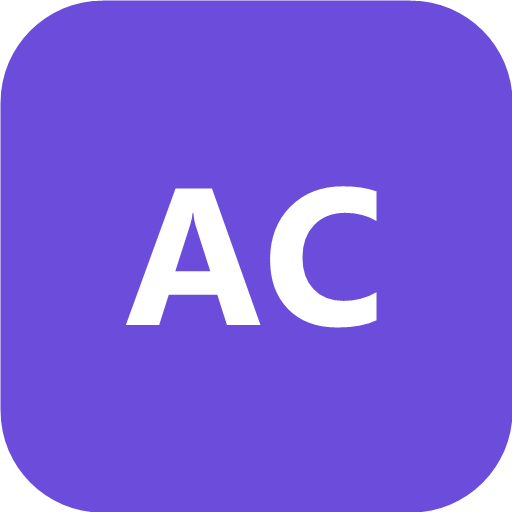
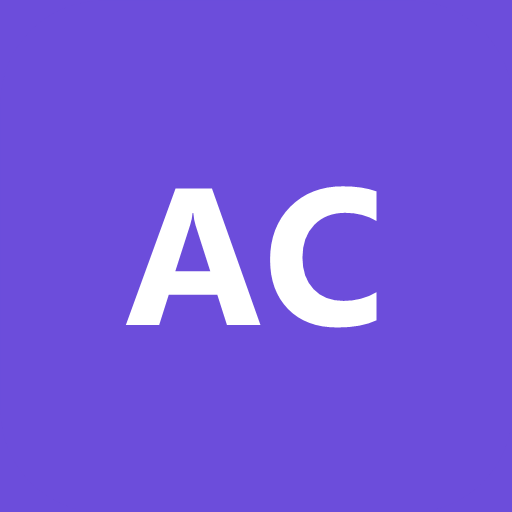
Ícone opaco do PWA (corrige ícone "fosco" no iPhone)
Os PNGs eram RGBA com fundo transparente; o iOS não aceita e mostrava
o placeholder gerado ("AC" fosco). Achata sobre roxo #6C4DDB (opaco) e
adiciona apple-touch-icon.png 180x180 (tamanho esperado pelo iOS).
Cache ac-v7.

diff --git a/docs/sw.js b/docs/sw.js
@@ -1,6 +1,7 @@
-const CACHE = 'ac-v6'; // bump a cada deploy
+const CACHE = 'ac-v7'; // bump a cada deploy
 const SHELL = [
-  './', './index.html', './style.css', './manifest.json', './icon-192.png', './icon-512.png',
+  './', './index.html', './style.css', './manifest.json',
+  './icon-192.png', './icon-512.png', './apple-touch-icon.png',
   './fonts/fredoka.ttf', './fonts/nunito.ttf',
   './js/app.js', './js/api.js', './js/domain.js', './js/recurrence.js',
   './js/views/login.js', './js/views/today.js', './js/views/rooms.js',

diff --git a/docs/index.html b/docs/index.html
@@ -8,7 +8,8 @@
   <title>Arruma Comigo</title>
   <link rel="manifest" href="manifest.json">
   <link rel="icon" href="icon-192.png">
-  <link rel="apple-touch-icon" href="icon-192.png">
+  <link rel="apple-touch-icon" href="apple-touch-icon.png">
+  <link rel="apple-touch-icon" sizes="180x180" href="apple-touch-icon.png">
   <!-- iOS: abrir como app em tela cheia, sem barra do Safari -->
   <meta name="apple-mobile-web-app-capable" content="yes">
   <meta name="mobile-web-app-capable" content="yes">